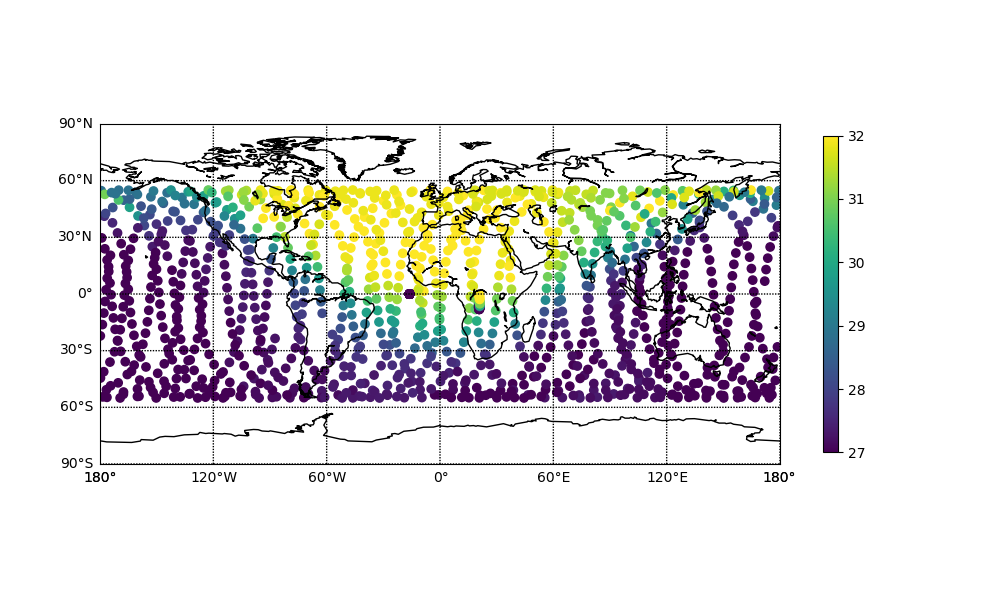
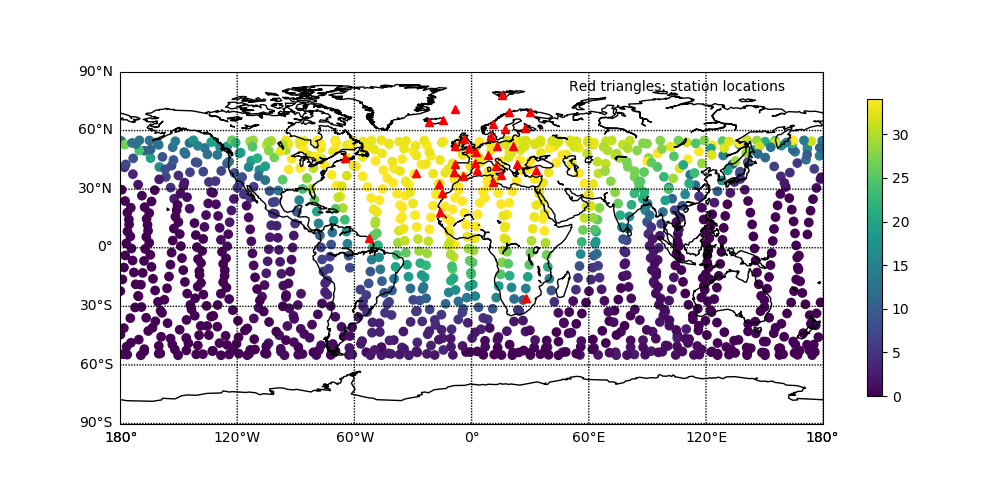
changed the figures edge spacings

diff --git a/analysis.py b/analysis.py
@@ -444,7 +444,6 @@ class AnalysisCovSatelliteVisibleGrid(AnalysisBase):
 
     def after_loop(self, sm):
         fig = plt.figure(figsize=(10, 5))
-        plt.subplots_adjust(left=.1, right=.9, top=0.99, bottom=0.01)
         metric, latitudes, longitudes = [], [], []
         for user in sm.users:
             if self.statistic == 'Min':
